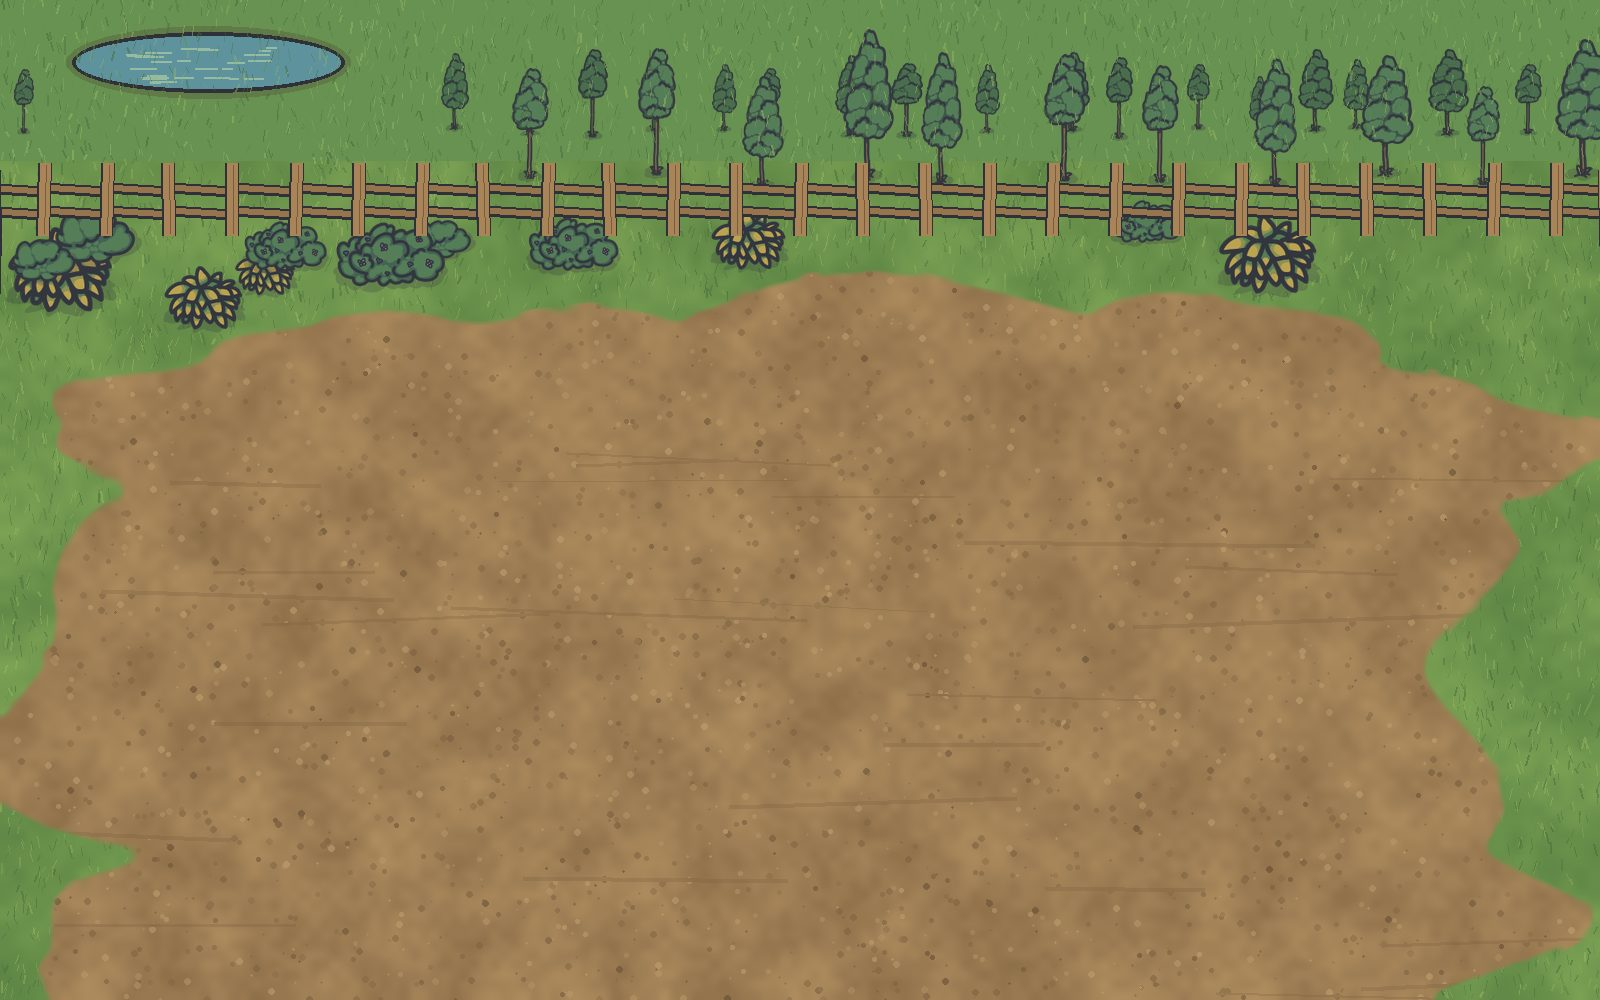
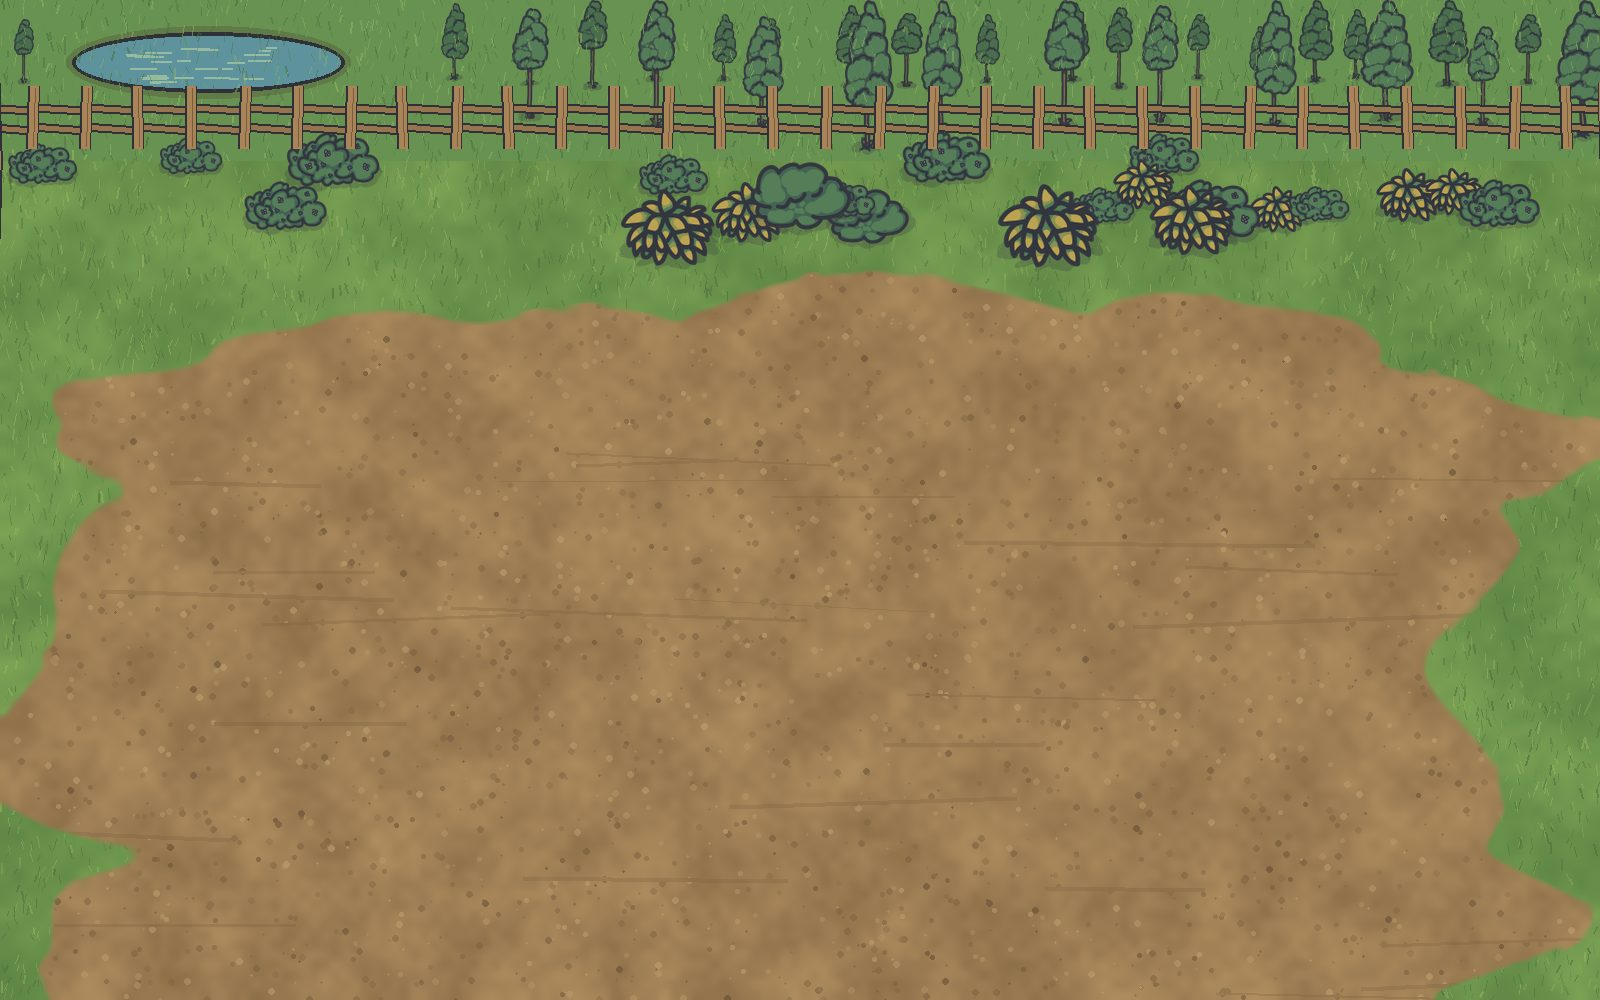
Поставить теплицу и поднять забор над постройками
Теплица была последней из набора — современная, из поликарбоната,
посреди деревянного двора. Стала деревянной рамой со стёклами.

Забор резал крыши заднего ряда, и это не на глаз: он занимал полосу
16–23,5% высоты двора, а конюшня с коровником стоят с 15%. Померил
границы построек в браузере и поднял задний план целиком — обе линии
деревьев, кусты и забор, — так что низ забора теперь выше самой высокой
крыши.

make-scene.py больше не трогает присланные постройки: он собирает фон и
хлева одним прогоном, и первая же правка фона затёрла все шесть. Защита
та же, что у животных, — если исходник лежит в assets-src/art/houses,
постройка не рисуется.

Claude-Session: https://claude.ai/code/session_013ovumMuRfj2SmgMR5kzGwz

Changed region(s): [[0.0, 0.0, 1.0, 0.341]]

diff --git a/tools/make-scene.py b/tools/make-scene.py
@@ -367,8 +367,8 @@ def build_background():
                 img.alpha_composite(t2, (x, max(0, ty)))
             x += rnd.randint(int(W * step_lo), int(W * step_hi))
 
-    treeline(0.135, 0.07, 0.10, 0.028, 0.055, 0.78, True)    # дальний план
-    treeline(0.185, 0.10, 0.155, 0.045, 0.085, 1.0, False)   # ближний
+    treeline(0.085, 0.07, 0.10, 0.028, 0.055, 0.78, True)    # дальний план
+    treeline(0.125, 0.10, 0.155, 0.045, 0.085, 1.0, False)   # ближний
 
     # двор
     dm = dirt_mask(size)
@@ -386,16 +386,19 @@ def build_background():
         ww = rnd.randint(60, 115)
         b2 = b.resize((ww, max(1, round(b.height * ww / b.width))), Image.LANCZOS)
         bx = rnd.randrange(0, W - ww)
-        by = rnd.randint(int(H * 0.20), int(H * 0.27))
+        by = rnd.randint(int(H * 0.13), int(H * 0.19))
         if dmp[min(W - 1, bx + ww // 2), min(H - 1, by + b2.height)] > 60:
             continue                      # на вытоптанной земле кусты не растут
         img.alpha_composite(b2, (bx, by))
 
-    # забор: поперёк за постройками и по бокам с уходом в перспективу
+    # Забор: поперёк за постройками и по бокам с уходом в перспективу.
+    # Высота выбрана не на глаз: самая высокая постройка (конюшня) занимает
+    # во дворе полосу 15–34% высоты, поэтому низ забора держим выше 15%,
+    # иначе рейки режут крыши заднего ряда.
     d = ImageDraw.Draw(img)
-    board_fence(d, [(-20, H * 0.235), (W + 20, H * 0.235)], H * 0.072)
-    board_fence(d, [(-6, H * 0.245), (-30, H * 1.05)], H * 0.075)
-    board_fence(d, [(W + 6, H * 0.245), (W + 30, H * 1.05)], H * 0.075)
+    board_fence(d, [(-20, H * 0.148), (W + 20, H * 0.148)], H * 0.062)
+    board_fence(d, [(-6, H * 0.158), (-30, H * 1.05)], H * 0.075)
+    board_fence(d, [(W + 6, H * 0.158), (W + 30, H * 1.05)], H * 0.075)
 
     # мягкая виньетка, чтобы края не спорили с постройками
     vg = Image.new("L", size, 0)
@@ -541,15 +544,32 @@ def nails(w=420, h=320):
     return im
 
 
+def supplied(key):
+    """Постройку уже заменили присланной картинкой — рисовать её не надо.
+
+    Без этой проверки скрипт затирает присланные постройки своими: фон и
+    хлева он собирает одним прогоном, и правка фона уносит с собой двор.
+    """
+    d = os.path.join(ROOT, "assets-src", "art", "houses")
+    return any(os.path.exists(os.path.join(d, key + ext))
+               for ext in (".png", ".jpg", ".jpeg", ".webp"))
+
+
 # ----------------------------------------------------------------- сборка
 if __name__ == "__main__":
     W_BIG, W_MID = 420, 300
-    save(fit(village("Barn1", "cherepica", "brevna", 1), W_BIG), "house-korovy")
-    save(fit(village("Barn1", "dranka", "temdoski", 2), W_BIG), "house-koni")
-    save(fit(village("Barn2", "cherepica", "mazanka", 3), W_BIG), "house-svini")
-    save(fit(village("Shed", "soloma", "mazanka", 4), W_MID), "house-kury")
-    save(fit(village("Shed", "soloma", "doski", 5), W_MID), "house-gusi")
-    print("постройки перекрашены")
+    HOUSES_OWN = [("korovy", "Barn1", "cherepica", "brevna",  1, W_BIG),
+                  ("koni",   "Barn1", "dranka",    "temdoski", 2, W_BIG),
+                  ("svini",  "Barn2", "cherepica", "mazanka",  3, W_BIG),
+                  ("kury",   "Shed",  "soloma",    "mazanka",  4, W_MID),
+                  ("gusi",   "Shed",  "soloma",    "doski",    5, W_MID)]
+    drawn = []
+    for key, shape, roof, wall, seed, w in HOUSES_OWN:
+        if supplied(key):
+            continue
+        save(fit(village(shape, roof, wall, seed), w), "house-" + key)
+        drawn.append(key)
+    print("построек отрисовано: " + (", ".join(drawn) if drawn else "ни одной, все присланные"))
 
     save(fit(wattle(), 220), "prop-pleten")
     save(fit(well(), 150), "prop-kolodec")
